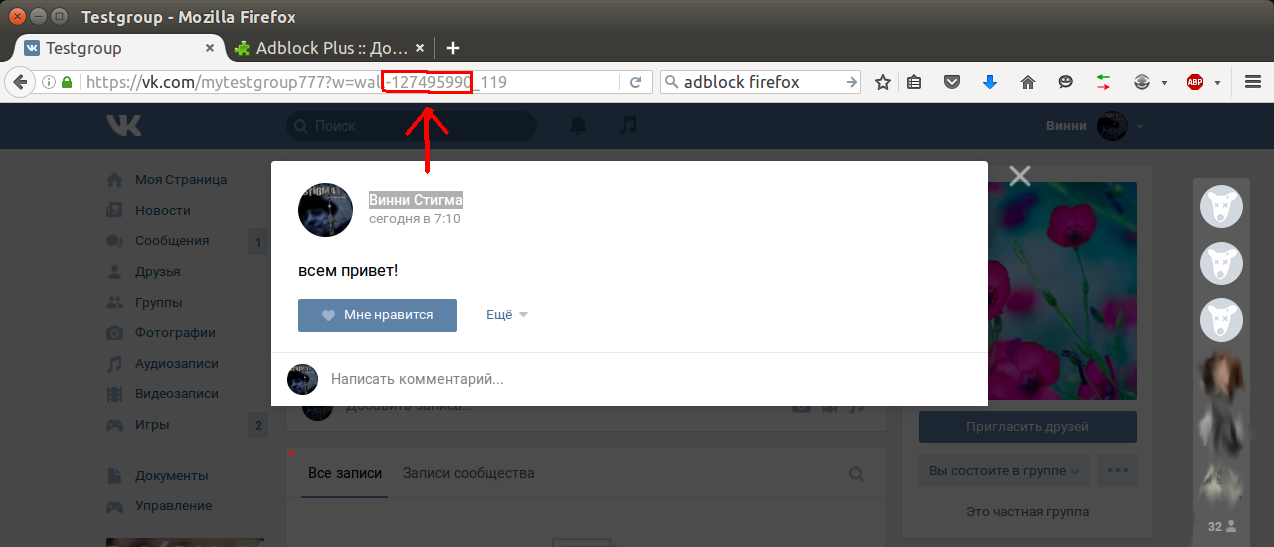
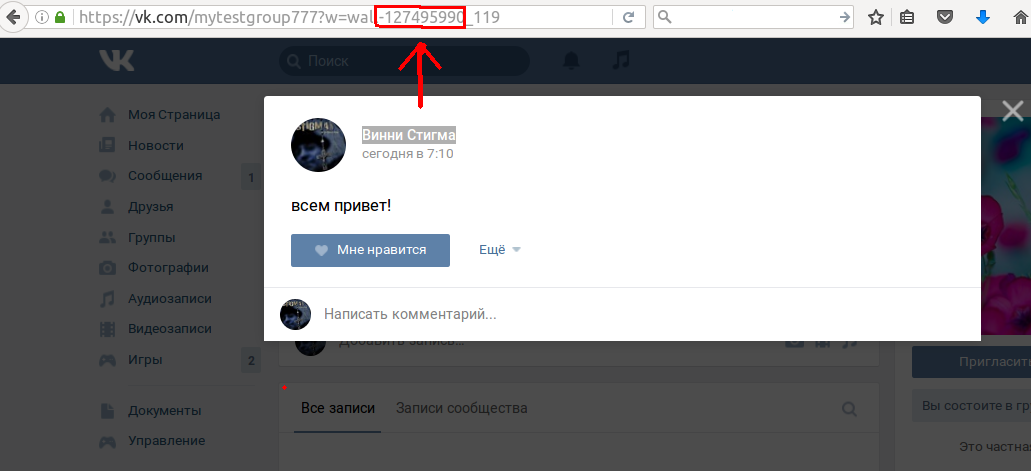
added images to readme

diff --git a/README.md b/README.md
@@ -24,6 +24,9 @@
 Вы будете перенаправлены на новую страницу, на которой нужно ввести название вашего приложения и выбрать его тип - **Standalone**.
 После чего вам будет предложено подтвердить создание приложения с помощью вашего гаджета.
 Тут потребуется устройство с установленным на него приложением VK, на который будет отправлен запрос на подтверждение.
+
+![alt text](img/gadget.png "Подтверждение создания приложения VK с помощью гаджета")
+
 После подтверждения зайдите в настройки приложения и поменяйте ему состояние на **Приложения включено и видно всем**.
 Последнее, что нас интересует на странице настроек приложения - это его ID (оно же client id), которое пригодится нам в будущем.
 
@@ -34,8 +37,8 @@
 Мы получим ключ с помощью Implicit Flow - самого короткого и простого варианта. Ключ к тому же будет вечный (обновлять его не потребуется), что не очень безопасно, но в нашем случае это некритично.
 
 Для того, чтобы получить ключ введите в адресной строке вашего браузера следующее:
-```https://oauth.vk.com/authorize?client_id=ИД_КЛИЕНТА&display=page&redirect_uri=https://oauth.vk.com/blank.html&scope=groups,offline&response_type=token```
-вместо **ИД_КЛИЕНТА** укажите ID вашего приложения (можно посмотреть на странице настроек вашего приложения, как описано выше).
+https://oauth.vk.com/authorize?client_id=CLIENT_ID&display=page&redirect_uri=https://oauth.vk.com/blank.html&scope=groups,offline&response_type=token
+вместо **CLIENT_ID** укажите ID вашего приложения (можно посмотреть на странице настроек вашего приложения, как описано выше).
 Остальные параметры:
 - ```display=page``` : 	Указывает тип отображения страницы авторизации.
 **page** — форма авторизации в отдельном окне;
@@ -48,14 +51,20 @@
 
 Нужно больше больше прав или более тонкая настройка? [Bсё есть в документации VK](https://vk.com/dev/implicit_flow_user).
 
-Итак, после введения вышеописанного в адресной строке вашего браузера, вам будет предложены залогиниться в VK (если вы уже этого не сделали), после чего вы будете перенаправлены на страницу подтверждения доступа нашего приложения к вашему акаунту. После клацания на **Разрешить** вы будете перенаправлены на такую страницу.
+Итак, после введения вышеописанного в адресной строке вашего браузера, вам будет предложены залогиниться в VK (если вы уже этого не сделали), после чего вы будете перенаправлены на страницу подтверждения доступа нашего приложения к вашему акаунту.
 
-Искомый ключ необходимо будет скопировать из адресной строки, в которой мы видим следующее:
-```https://oauth.vk.com/blank.html#access_token=ДЛИННЮЩИЙ_КЛЮЧ&expires_in=0&user_id=ВАШ_ЮЗЕР_ИД```
+![alt text](img/authorise_your_app.png "Разрешить VK приложению доступ к группам")
+
+После клацания на **Разрешить** вы будете перенаправлены на такую страницу.
+
+![alt text](img/access_token.png "Сгенерированный VK ключ доступа")
+
+Искомый ключ необходимо будет скопировать из адресной строки, в которой мы видим следующее: https://oauth.vk.com/blank.html#access_token=LOOONG_KEY&expires_in=0&user_id=YOUR_USER_ID
 
 Среди параметров здесь:
-- ```access_token=ДЛИННЮЩИЙ_КЛЮЧ``` : наш искомый ключ;
-- ```expires_in=0``` : указывает на то, что полученный ключ никогда не истечет, он вечен.
+- ```access_token=LOOONG_KEY``` : наш искомый ключ;
+- ```expires_in=0``` : указывает на то, что полученный ключ никогда не истечет, он вечен;
+- ```YOUR_USER_ID``` : ваш юзер ид, нам он не понадобится.
 
 Итак, ключ получен, можем немного поспамить в наше сообщество.
 
@@ -68,12 +77,14 @@
 В ```config.json``` измените параметры на ваши:
 - ```vkAccessToken``` : вышеполученный access token;
 - ```vkGroupOwnerId``` : id вашего сообщества. Можно посмотреть, клацнув на любой пост в вашем сообществе. В адресной строке будет что-то типа: ```https://vk.com/АДРЕС_СТРАНИЦЫ?w=wall-ИСКОМОЕ_ИД_117%2Fall```,
-где наc интересует ИСКОМОЕ_ИД - его вместе со знаком минус его предваряющим и указываем в **vkGroupOwnerId**;
+где наc интересует ИСКОМОЕ_ИД - его вместе со знаком минус его предваряющим и указываем в **vkGroupOwnerId**;  
+![alt text](img/group_owner_id.png "VK Group owner id")
 - ```total``` : итоговая сумма, которую нужно собрать;
 - ```currency``` : код валюты этой итоговой суммы в базе НБРБ. Да, мы будем высчитывать итоговую сумму в беларуских рублях по курсу НБРБ. Курс будем вытягивать по [REST API предоставляемому банком](http://www.nbrb.by/APIHelp/ExRates);
 - ```periodLengthInMonths``` : продолжительность периода, как часто нужно расплачиваться за гараж, в нашем случае 2 месяца;
 - ```daysToAnswerDeadline``` : сколько дней дать ребятам на то, чтобы ответить, т.е. через сколько дней подведём итоги и опубликуем итоговый пост;
-- ```commentRegex``` : шаблон коммента, по которому будем определять число музыкантов в группе. В нашем случае это <ИМЯ_АРТИСТА_БЕЗ_ПРОБЕЛОВ> <КОЛИЧЕСТВО ЧЕЛОВЕК>. Например, agnosticfront 5;
+- ```commentRegex``` : шаблон коммента, по которому будем определять число музыкантов в группе.  
+В нашем случае это <ИМЯ_АРТИСТА_БЕЗ_ПРОБЕЛОВ> <КОЛИЧЕСТВО ЧЕЛОВЕК>. Например, agnosticfront 5;
 - ```announcementMessage``` : текст сообщения-опросника количества учатсников;
 - ```resultMessage``` : текст итогового сообщения.
 
